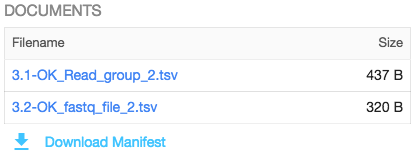
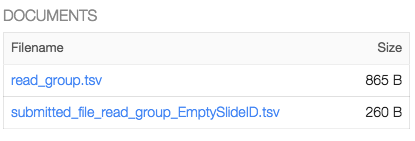
Updated Transactions page

diff --git a/docs/Data_Submission_Portal/Users_Guide/Transactions.md b/docs/Data_Submission_Portal/Users_Guide/Transactions.md
@@ -6,6 +6,14 @@ The transactions view lists all transactions which happen on the project since i
 
 [![GDC Submission Transactions](images/GDC_Submission_Transactions.png)](images/GDC_Submission_Transactions.png "Click to see the full image.")
 
+The types of transaction are the following:
+
+* __Upload__: the user uploads data to the project workspace.
+* __Review__: the user reviews the project before submitting data to the GDC.
+* __Open__: the user re-opens the project if it was under review. This will allow to upload new data to the project workspace.
+* __Submit__: the user submits data to the GDC. This trigger the harmonization process.
+* __Release__: the user releases data to the GDC Data Portal.
+
 ## Transactions List View
 
 The transactions list view displays the following information:
@@ -13,9 +21,8 @@ The transactions list view displays the following information:
 |Column|Description|
 | --- | --- |
 | ID | ID of the transaction |
-| Type | Type of the transaction, can be Submission or Relase|
-| Project | Project impacted by the transaction |
-| Cases Affected | Number of cases impacted by the transaction |
+| Type | Type of the transaction (see list transaction types in the previous section)|
+| Cases Affected | Number of cases affected by the transaction. Note: during data upload, any entity created or updated is associated with a case. |
 | Entities Created | Entities created during the transaction |
 | Entities Updated | Entities updated during the transaction |
 | Date Created | Date of the transaction |
@@ -27,6 +34,14 @@ Clicking on a transaction will open the details panel. Data in this panel is bro
 [![GDC Submission Transactions](images/GDC_Submission_Transactions_Details.png)](images/GDC_Submission_Transactions_Details.png "Click to see the full image.")
 
 Navigation between those sections can be done either by scrolling down or by clicking on the section icon on the left side of the details panel.
+
+### Actions
+
+Some transactions provide actions, for example if the user uploads read groups and files metadata then he will be able to download the corresponding manifest from the transaction. This manifest is used to upload the actual files through the GDC Data Transfer Tool.
+
+[![GDC Submission Transactions Details Action](images/GDC_Submission_Transactions_Details_Action.png)](images/GDC_Submission_Transactions_Details_Action.png "Click to see the full image.")
+
+
 
 ### Details
 
@@ -42,6 +57,7 @@ List the type of files submitted and the number of affected cases and entities.
 
 ### Documents
 
-Lists files submitted during the transactions, a manifest can also be downloaded below this table.
+Lists files submitted during the transactions.
+The user can __download the original files from the transaction__.
 
 [![GDC Submission Transactions Documents](images/GDC_Submission_Transactions_Details_Documents.png)](images/GDC_Submission_Transactions_Details_Documents.png "Click to see the full image.")
